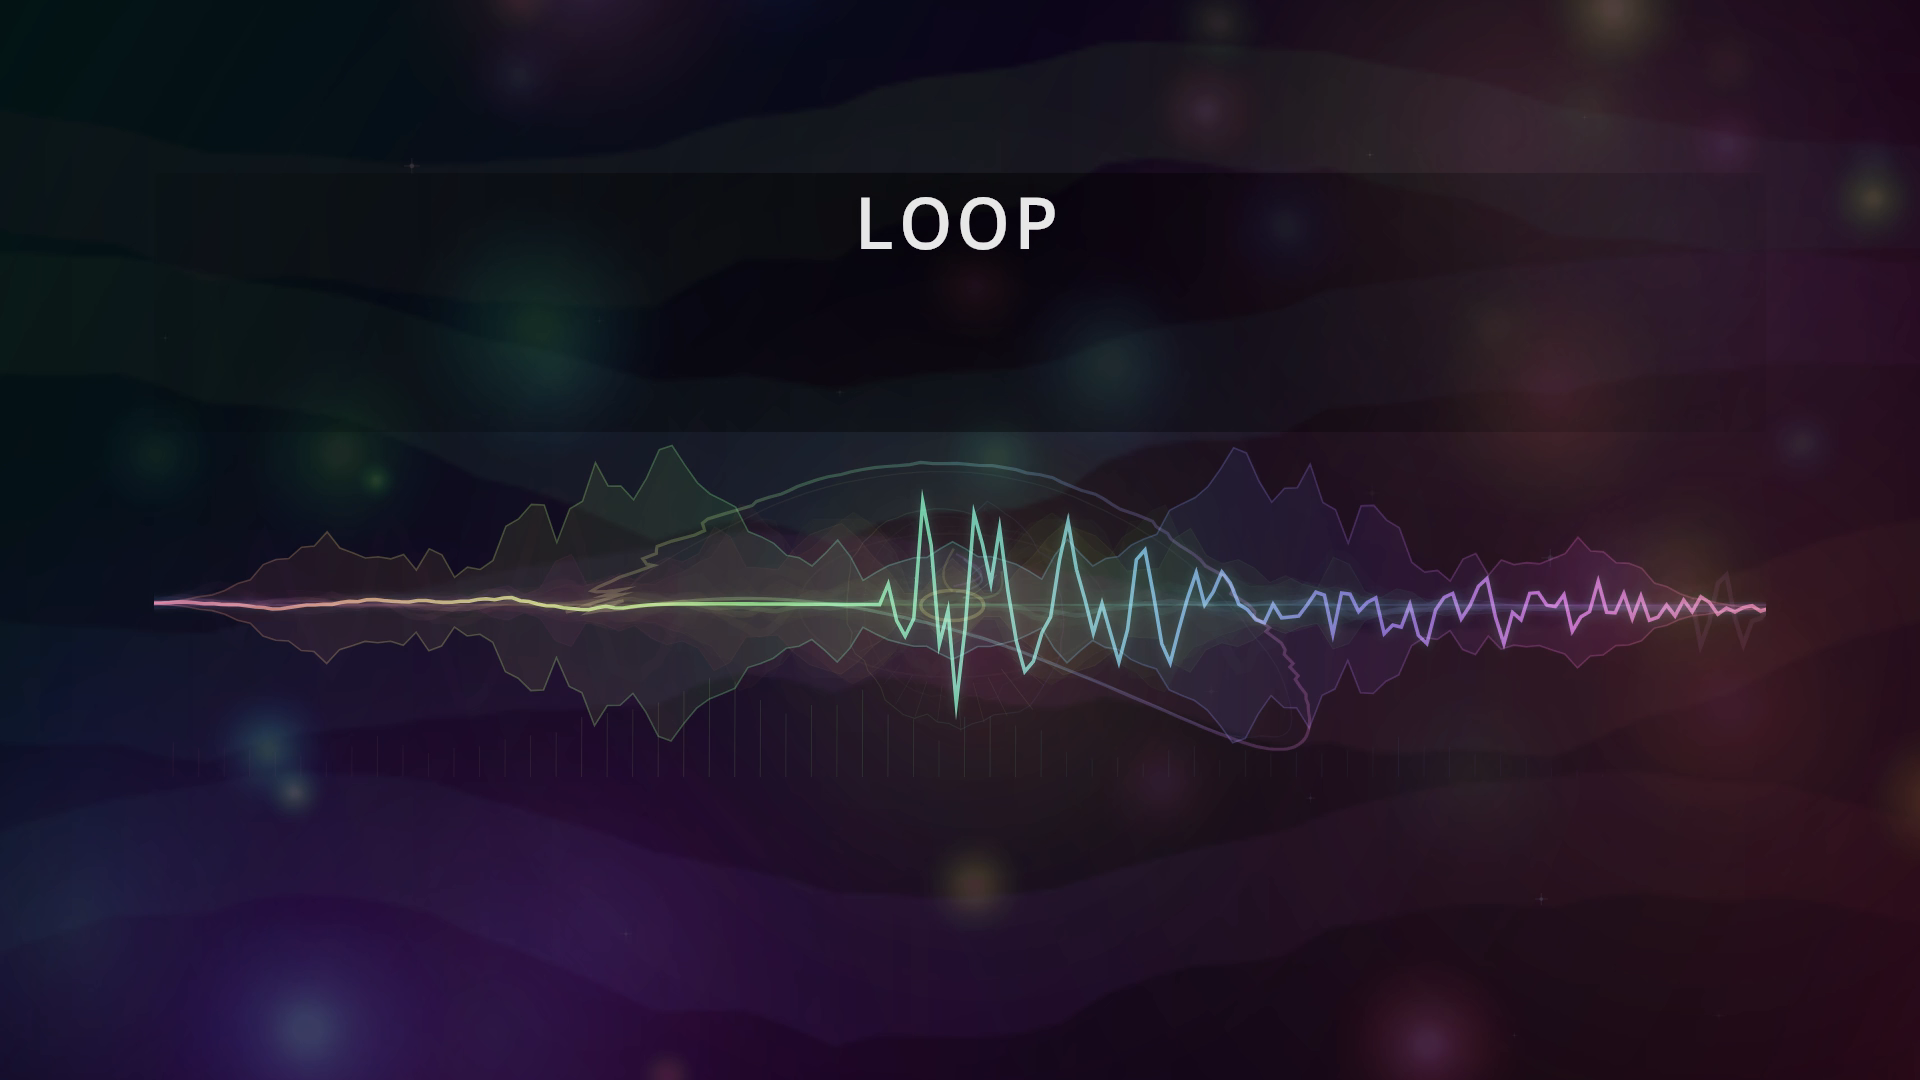
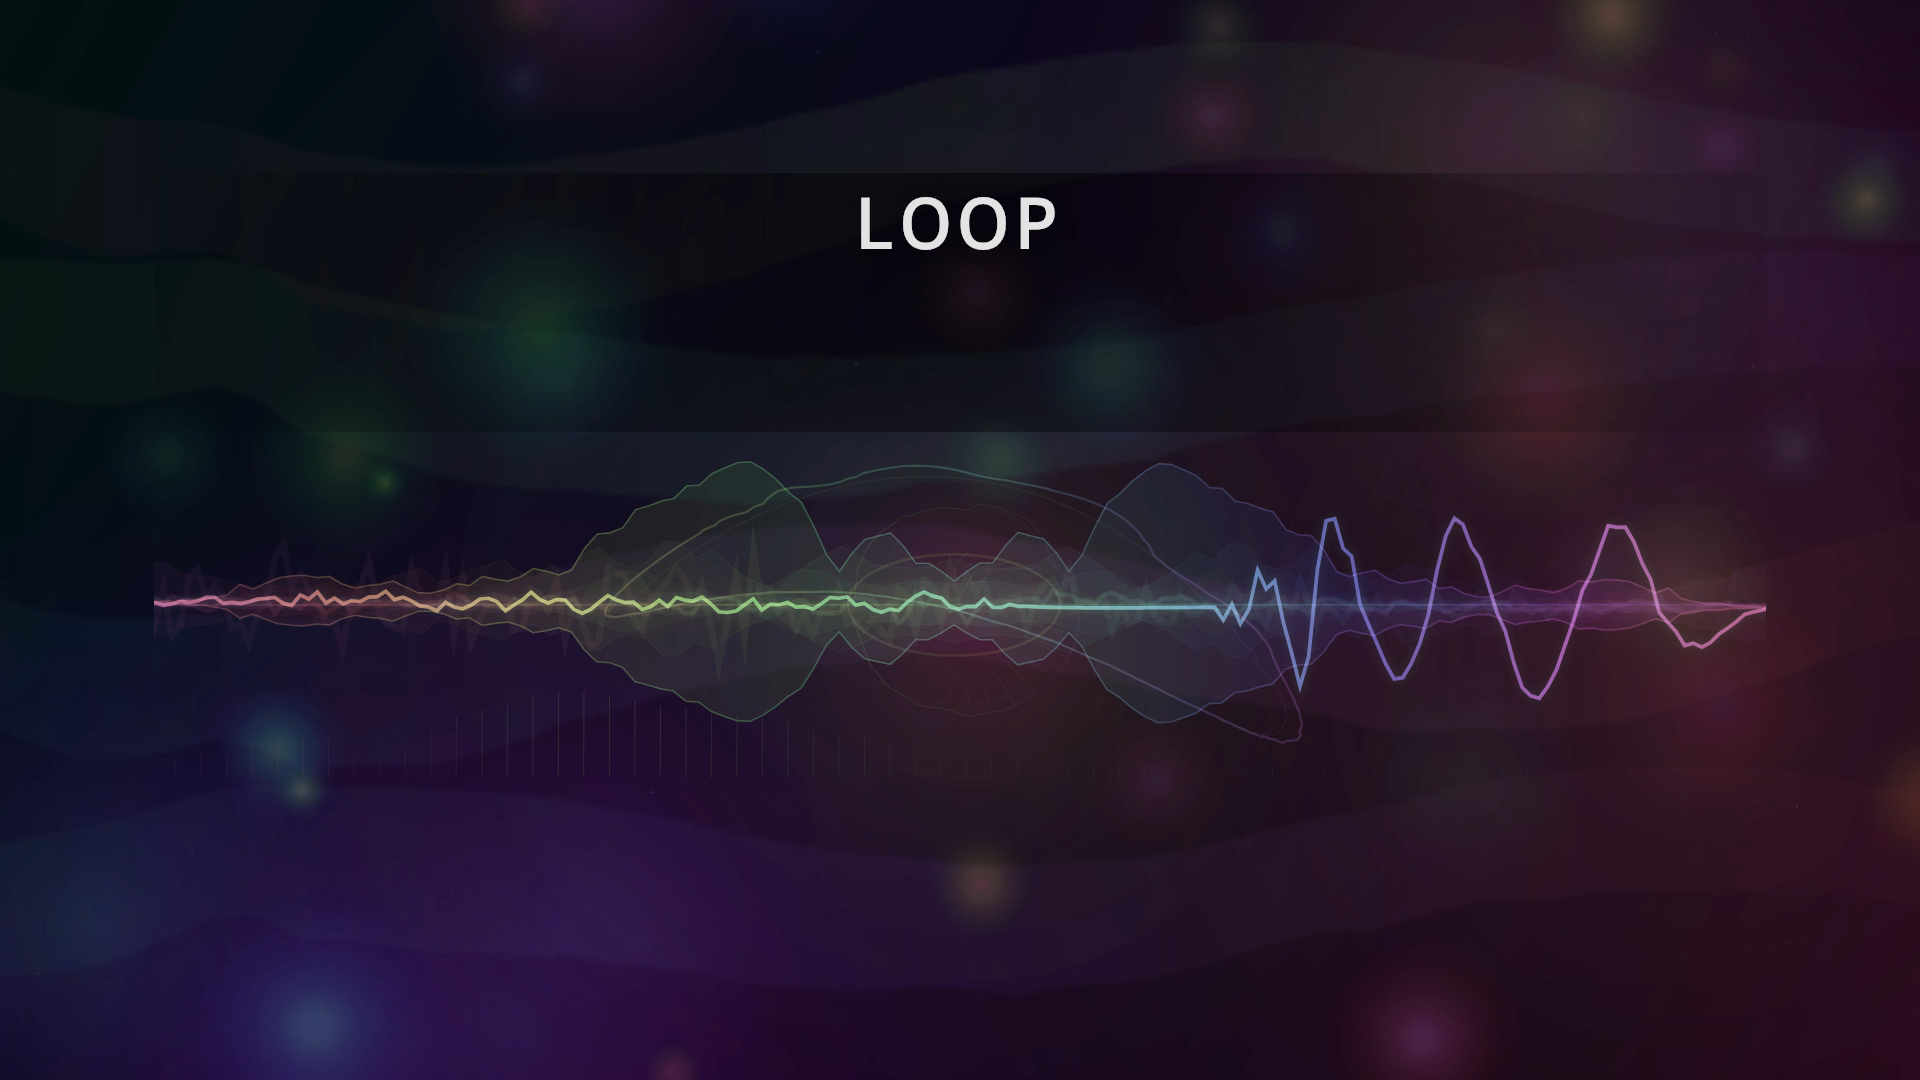
Add synchronized audio-video fades

diff --git a/test/render.integration.test.ts b/test/render.integration.test.ts
@@ -6,13 +6,14 @@ import { tmpdir } from "node:os";
 import { analyzeAudio } from "../src/audio/analyze.js";
 import { decodeAudio } from "../src/audio/decode.js";
 import { parseProjectConfig } from "../src/config.js";
-import { DELIVERY_AUDIO_BITRATE } from "../src/render/encoder.js";
+import { DELIVERY_AUDIO_BITRATE, FfmpegEncoder } from "../src/render/encoder.js";
 import { renderVideo } from "../src/render/render.js";
 import type { AudioAnalysis } from "../src/types.js";
 
 const directory = join(tmpdir(), `visu-visu-render-test-${process.pid}`);
 const audioPath = join(directory, "fixture.wav");
 const outputPath = join(directory, "duration.mp4");
+const fadeOutputPath = join(directory, "fade.mp4");
 let analysis: AudioAnalysis;
 
 beforeAll(async () => {
@@ -27,7 +28,7 @@ beforeAll(async () => {
       "-f",
       "lavfi",
       "-i",
-      "sine=frequency=220:duration=1:sample_rate=24000",
+      "sine=frequency=220:duration=7:sample_rate=24000",
       "-c:a",
       "pcm_s16le",
       audioPath,
@@ -43,7 +44,7 @@ afterAll(async () => {
 });
 
 describe("video render integration", () => {
-  test("quantizes duration to complete frames and muxes matching A/V output", async () => {
+  test("quantizes duration, fades both ends, and muxes matching A/V output", async () => {
     const config = parseProjectConfig({
       output: { width: 160, height: 160, fps: 12 },
       visual: { spectrumBands: 16, bokehCount: 4, grain: 0 },
@@ -139,6 +140,132 @@ describe("video render integration", () => {
       maximumBFrames = Math.max(maximumBFrames, consecutiveBFrames);
     }
     expect(maximumBFrames).toBeLessThanOrEqual(2);
+
+  });
+
+  test("encodes complete three-second picture and silence fades", async () => {
+    const width = 160;
+    const height = 160;
+    const fps = 12;
+    const duration = 6.5;
+    const frameCount = duration * fps;
+    const config = parseProjectConfig({
+      output: {
+        width,
+        height,
+        fps,
+        renderScale: 0.5,
+        crf: 30,
+        preset: "ultrafast",
+        fadeSeconds: 3,
+      },
+      visual: { spectrumBands: 16, bokehCount: 0, grain: 0 },
+    });
+    const encoder = await FfmpegEncoder.create({
+      audioPath,
+      outputPath: fadeOutputPath,
+      config,
+      start: 0.5,
+      duration,
+      frameCount,
+      inputWidth: width,
+      inputHeight: height,
+      overwrite: true,
+    });
+    const whiteFrame = Buffer.alloc(width * height * 4, 255);
+    for (let index = 0; index < frameCount; index += 1) await encoder.write(whiteFrame);
+    await encoder.finish();
+
+    const decodedVideo = spawnSync(
+      "ffmpeg",
+      [
+        "-v",
+        "error",
+        "-i",
+        fadeOutputPath,
+        "-map",
+        "0:v:0",
+        "-vf",
+        "scale=32:32",
+        "-pix_fmt",
+        "rgb24",
+        "-f",
+        "rawvideo",
+        "pipe:1",
+      ],
+      { maxBuffer: 2 * 1024 * 1024 },
+    );
+    if (decodedVideo.status !== 0) {
+      throw new Error(`Could not decode fade video: ${decodedVideo.stderr.toString()}`);
+    }
+    const frameBytes = 32 * 32 * 3;
+    expect(decodedVideo.stdout.byteLength).toBe(frameBytes * frameCount);
+    const frameMean = (frameIndex: number): number => {
+      const start = frameIndex * frameBytes;
+      let sum = 0;
+      for (let index = start; index < start + frameBytes; index += 1) {
+        sum += decodedVideo.stdout[index] ?? 0;
+      }
+      return sum / frameBytes;
+    };
+    const middleMean = frameMean(Math.round(3.25 * fps));
+    expect(frameMean(0)).toBeLessThan(2);
+    expect(middleMean).toBeGreaterThan(240);
+    expect(frameMean(frameCount - 1)).toBeLessThan(12);
+    const videoFadeInRatio = frameMean(Math.round(1.5 * fps)) / middleMean;
+    const videoFadeOutRatio = frameMean(Math.round(5 * fps)) / middleMean;
+    expect(videoFadeInRatio).toBeGreaterThan(0.35);
+    expect(videoFadeInRatio).toBeLessThan(0.65);
+    expect(videoFadeOutRatio).toBeGreaterThan(0.35);
+    expect(videoFadeOutRatio).toBeLessThan(0.65);
+
+    const decodedAudio = spawnSync(
+      "ffmpeg",
+      [
+        "-v",
+        "error",
+        "-i",
+        fadeOutputPath,
+        "-map",
+        "0:a:0",
+        "-ac",
+        "1",
+        "-ar",
+        "48000",
+        "-f",
+        "f32le",
+        "pipe:1",
+      ],
+      { maxBuffer: 2 * 1024 * 1024 },
+    );
+    if (decodedAudio.status !== 0) {
+      throw new Error(`Could not decode fade audio: ${decodedAudio.stderr.toString()}`);
+    }
+    const sampleCount = Math.floor(decodedAudio.stdout.byteLength / 4);
+    const rms = (start: number, end: number): number => {
+      let squareSum = 0;
+      for (let index = start; index < end; index += 1) {
+        const sample = decodedAudio.stdout.readFloatLE(index * 4);
+        squareSum += sample * sample;
+      }
+      return Math.sqrt(squareSum / Math.max(1, end - start));
+    };
+    const sampleRate = 48_000;
+    const windowSamples = Math.round(0.2 * sampleRate);
+    const windowAt = (seconds: number): number => {
+      const center = Math.round(seconds * sampleRate);
+      return rms(center - windowSamples / 2, center + windowSamples / 2);
+    };
+    const middleRms = windowAt(3.25);
+    expect(middleRms).toBeGreaterThan(0.02);
+    expect(rms(0, windowSamples) / middleRms).toBeLessThan(0.1);
+    expect(rms(sampleCount - windowSamples, sampleCount) / middleRms).toBeLessThan(0.1);
+    const audioFadeInRatio = windowAt(1.5) / middleRms;
+    const audioFadeOutRatio = windowAt(5) / middleRms;
+    expect(audioFadeInRatio).toBeGreaterThan(0.35);
+    expect(audioFadeInRatio).toBeLessThan(0.65);
+    expect(audioFadeOutRatio).toBeGreaterThan(0.35);
+    expect(audioFadeOutRatio).toBeLessThan(0.65);
   });
 
   test("rejects analysis sampled at a different output frame rate", async () => {

diff --git a/src/render/encoder.ts b/src/render/encoder.ts
@@ -57,6 +57,28 @@ export class FfmpegEncoder {
     }
     const { output } = options.config;
     const gopFrames = Math.max(1, Math.round(output.fps / 2));
+    const fadeDuration = Math.min(output.fadeSeconds, options.duration / 2);
+    const fadeOutStart = Math.max(0, options.duration - fadeDuration);
+    const videoFilters = [
+      `scale=${output.width}:${output.height}:flags=lanczos+accurate_rnd+full_chroma_int:in_range=full:out_range=tv:out_color_matrix=bt709`,
+    ];
+    const audioFilters = [
+      "asetpts=PTS-STARTPTS",
+      `atrim=start=0:end=${options.duration.toFixed(6)}`,
+      `apad=whole_dur=${options.duration.toFixed(6)}`,
+      `atrim=start=0:end=${options.duration.toFixed(6)}`,
+    ];
+    if (fadeDuration > 0) {
+      videoFilters.push(
+        `fade=t=in:st=0:d=${fadeDuration.toFixed(6)}:color=black`,
+        `fade=t=out:st=${fadeOutStart.toFixed(6)}:d=${fadeDuration.toFixed(6)}:color=black`,
+      );
+      audioFilters.push(
+        `afade=t=in:st=0:d=${fadeDuration.toFixed(6)}:curve=tri:silence=0`,
+        `afade=t=out:st=${fadeOutStart.toFixed(6)}:d=${fadeDuration.toFixed(6)}:curve=tri:silence=0`,
+      );
+    }
+    videoFilters.push("format=yuv420p", "setsar=1");
     const args = [
       "-hide_banner",
       options.overwrite ? "-y" : "-n",
@@ -88,8 +110,9 @@ export class FfmpegEncoder {
     );
     args.push(
       "-vf",
-      `scale=${output.width}:${output.height}:flags=lanczos+accurate_rnd+full_chroma_int:in_range=full:out_range=tv:out_color_matrix=bt709,format=yuv420p,setsar=1`,
+      videoFilters.join(","),
     );
+    args.push("-af", audioFilters.join(","));
     args.push(
       "-c:v",
       "libx264",

diff --git a/src/config.ts b/src/config.ts
@@ -11,6 +11,7 @@ export const DEFAULT_CONFIG: ProjectConfig = {
     renderScale: 1,
     crf: 8,
     preset: "slow",
+    fadeSeconds: 3,
   },
   text: {
     title: "",
@@ -124,6 +125,13 @@ export function parseProjectConfig(value: unknown): ProjectConfig {
       ),
       crf: integer(output.crf, DEFAULT_CONFIG.output.crf, "output.crf", 0, 51),
       preset: preset as ProjectConfig["output"]["preset"],
+      fadeSeconds: boundedNumber(
+        output.fadeSeconds,
+        DEFAULT_CONFIG.output.fadeSeconds,
+        "output.fadeSeconds",
+        0,
+        30,
+      ),
     },
     text: {
       title: stringValue(text.title, DEFAULT_CONFIG.text.title, "text.title").trim(),

diff --git a/test/config.test.ts b/test/config.test.ts
@@ -16,6 +16,7 @@ describe("project configuration", () => {
     expect(config.output.renderScale).toBe(1);
     expect(config.output.crf).toBe(8);
     expect(config.output.preset).toBe("slow");
+    expect(config.output.fadeSeconds).toBe(3);
     expect(config.visual.grain).toBe(0.018);
     expect(config).toEqual(DEFAULT_CONFIG);
   });
@@ -45,6 +46,13 @@ describe("project configuration", () => {
       "output.renderScale must be between 0.25 and 1",
     );
     expect(parseProjectConfig({ output: { renderScale: 1 } }).output.renderScale).toBe(1);
+  });
+
+  test("validates the synchronized fade duration", () => {
+    expect(() => parseProjectConfig({ output: { fadeSeconds: -0.1 } })).toThrow(
+      "output.fadeSeconds must be between 0 and 30",
+    );
+    expect(parseProjectConfig({ output: { fadeSeconds: 0 } }).output.fadeSeconds).toBe(0);
   });
 
   test("combines an independent resolution and aspect ratio", () => {

diff --git a/src/cli.ts b/src/cli.ts
@@ -38,6 +38,7 @@ Render options:
       --artist <text>       On-screen and file metadata artist
       --start <seconds>     Start within the song
       --duration <seconds>  Render only this many seconds
+      --fade <seconds>      Fade picture/audio at both ends (default: 3)
       --quality <mode>      final or preview
   -y, --overwrite           Replace an existing output
 
@@ -92,6 +93,7 @@ function overrideConfig(
     artist?: string;
     quality?: string;
     bands?: string;
+    fade?: string;
   },
 ): ProjectConfig {
   const mutable = structuredClone(config);
@@ -117,6 +119,8 @@ function overrideConfig(
   const fps = numericOption(options.fps, "fps");
   if (fps !== undefined) mutable.output.fps = fps;
   const renderScale = numericOption(options.renderScale, "render-scale");
+  const fade = numericOption(options.fade, "fade");
+  if (fade !== undefined) mutable.output.fadeSeconds = fade;
   const bands = numericOption(options.bands, "bands");
   if (bands !== undefined) mutable.visual.spectrumBands = bands;
   if (options.seed !== undefined) mutable.visual.seed = options.seed;
@@ -187,6 +191,7 @@ async function runRender(args: string[]): Promise<void> {
       artist: { type: "string" },
       start: { type: "string" },
       duration: { type: "string" },
+      fade: { type: "string" },
       quality: { type: "string" },
       overwrite: { type: "boolean", short: "y" },
     },
@@ -207,6 +212,7 @@ async function runRender(args: string[]): Promise<void> {
     ...(values.seed === undefined ? {} : { seed: values.seed }),
     ...(values.title === undefined ? {} : { title: values.title }),
     ...(values.artist === undefined ? {} : { artist: values.artist }),
+    ...(values.fade === undefined ? {} : { fade: values.fade }),
     ...(values.quality === undefined ? {} : { quality: values.quality }),
   });
   if (!config.text.title) {

diff --git a/src/types.ts b/src/types.ts
@@ -8,6 +8,7 @@ export interface OutputConfig {
   renderScale: number;
   crf: number;
   preset: "ultrafast" | "veryfast" | "fast" | "medium" | "slow";
+  fadeSeconds: number;
 }
 
 export interface TextConfig {

diff --git a/README.md b/README.md
@@ -8,6 +8,8 @@ Text and signal graphics use an aspect-aware safe composition. Landscape output 
 
 Every MP4 contains the song as stereo AAC-LC at 384 kbps and 48 kHz. This exceeds the requested 320 kbps quality while remaining more compatible with MP4 upload pipelines than an MP3 stream.
 
+Picture and audio fade in together from black and silence over the first three seconds, then fade back to black and silence over the final three seconds. The fades happen inside the existing runtime; they do not add silent lead-in or tail time. Outputs shorter than six seconds divide their available duration evenly between the two ramps. Set `--fade 0` to disable them or `--fade <seconds>` to choose another duration.
+
 Final renders are high-fidelity upload masters: Canvas runs at the native delivery resolution, then FFmpeg encodes H.264 High Profile at CRF 8 with the slow preset, BT.709 color, two B-frames, and a closed half-frame-rate GOP. This is near-transparent rather than mathematically lossless, and intentionally produces larger, slower files that give YouTube and other platforms a cleaner source for their own transcode. The format follows [YouTube's recommended upload settings](https://support.google.com/youtube/answer/1722171); use preview quality while tuning.
 
 ## Showcase
@@ -96,7 +98,8 @@ bun run render -- ./song.wav --config ./visu.config.json
     "fps": 30,
     "renderScale": 1,
     "crf": 8,
-    "preset": "slow"
+    "preset": "slow",
+    "fadeSeconds": 3
   },
   "text": {
     "title": "",
@@ -128,6 +131,8 @@ Useful output shorthands:
 Dimensions are rounded to even pixels for broadly compatible H.264 output.
 
 `--duration` is quantized upward to complete video frames. For example, `0.51` seconds at 12 fps becomes 7 frames and is reported as `0.58` seconds, matching the encoded stream.
+
+`fadeSeconds` controls synchronized picture-to-black and audio-to-silence ramps at both ends. Audio is timestamp-reset after source seeking, padded if frame quantization extends past the available source by a fraction of a frame, and trimmed to the exact video duration before fading.
 
 `renderScale` controls the internal Canvas resolution independently of the encoded resolution. Final quality defaults to `1`, so a Full HD master is drawn natively at `1920×1080` with no source upscale. `--quality preview` switches to a half-scale Canvas, CRF 20, and the `veryfast` encoder preset while still producing the requested delivery dimensions. Explicit `--quality final` restores native scale, CRF 8, and the `slow` preset even when a project config contains draft settings.
 

diff --git a/docs/architecture.md b/docs/architecture.md
@@ -37,9 +37,9 @@ The Canvas2D scene currently has these layers:
 
 ### 4. Encode
 
-[`src/render/encoder.ts`](../src/render/encoder.ts) streams raw RGBA frames to FFmpeg with backpressure. FFmpeg applies the Lanczos delivery filter (a spatial resize only when internal and delivery dimensions differ), encodes H.264 High-profile video with BT.709 metadata, two B-frames, four references, and a fixed closed GOP, seeks the original source audio to the same start time, encodes stereo AAC-LC at 48 kHz with a 384 kbps target, and muxes an MP4 with fast-start metadata.
+[`src/render/encoder.ts`](../src/render/encoder.ts) streams raw RGBA frames to FFmpeg with backpressure. FFmpeg applies the Lanczos delivery filter (a spatial resize only when internal and delivery dimensions differ), synchronized picture-to-black and audio-to-silence fades, then encodes H.264 High-profile video with BT.709 metadata, two B-frames, four references, and a fixed closed GOP. It seeks the original source audio to the same start time, resets its local timestamp, pads and trims it to the frame-quantized video duration, encodes stereo AAC-LC at 48 kHz with a 384 kbps target, and muxes an MP4 with fast-start metadata.
 
-Audio is normalized to a platform-oriented delivery profile: AAC-LC, stereo, 48 kHz, and 384 kbps. The source audio is always mapped explicitly, and integration tests probe the finished stream to prevent silent-video regressions.
+Audio is normalized to a platform-oriented delivery profile: AAC-LC, stereo, 48 kHz, and 384 kbps. The source audio is always mapped explicitly. Integration tests decode finished picture and PCM data to verify the full three-second fade slopes, black endpoints, silent endpoints, excerpt-local timing, and non-silent midpoint in addition to codec metadata.
 
 Requested durations are converted to a whole frame count once, before rendering and encoding. The reported duration, FFmpeg limit, and video frame count therefore share one value. Source-file hash verification lives in the render core, so library callers receive the same cache/audio mismatch protection as the CLI.
 